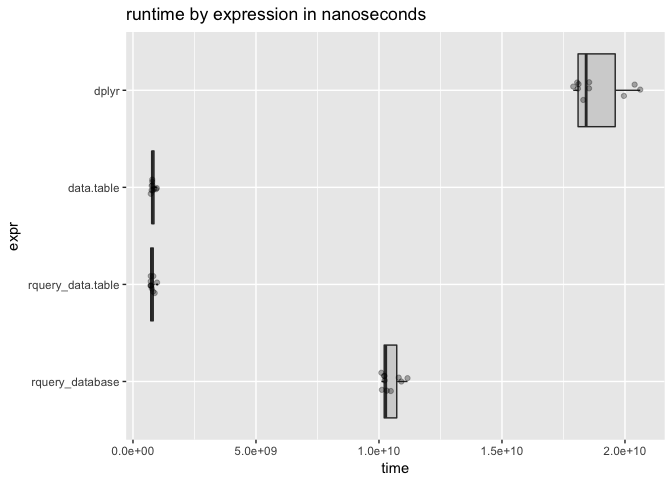
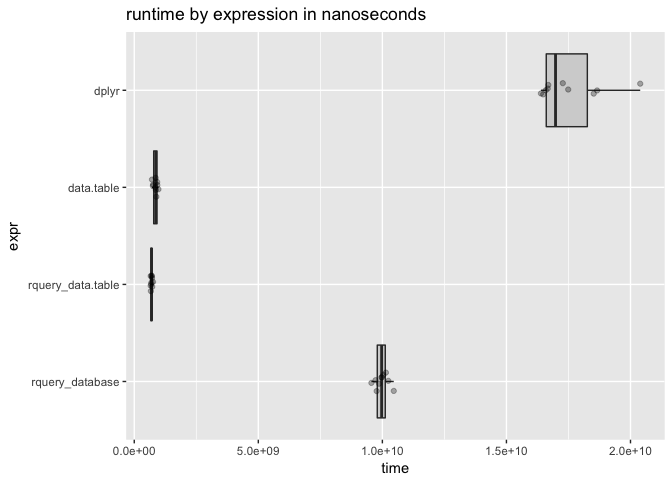
update packages and re-run

diff --git a/extras/data_table.md b/extras/data_table.md
@@ -40,6 +40,24 @@ library("qdatatable") # devtools::install.packages("WinVector/qdatatable")
     ##     coalesce
 
 ``` r
+packageVersion("dplyr")
+```
+
+    ## [1] '0.7.5'
+
+``` r
+packageVersion("data.table")
+```
+
+    ## [1] '1.10.4.3'
+
+``` r
+packageVersion("rquery")
+```
+
+    ## [1] '0.5.0'
+
+``` r
 # data example
 dL <- build_frame(
    "subjectID", "surveyCategory"     , "assessmentTotal" |
@@ -261,15 +279,15 @@ print(timings)
 
     ## Unit: milliseconds
     ##               expr        min         lq       mean     median         uq
-    ##    rquery_database 10096.8669 10209.7952 10454.1202 10273.5284 10802.6368
-    ##  rquery_data.table   718.9044   721.2533   789.1431   753.1543   825.3029
-    ##         data.table   723.5045   761.9016   818.0956   787.5019   869.4023
-    ##              dplyr 17897.0035 18086.7331 18850.8112 18421.9741 19956.2487
+    ##    rquery_database  9557.6507  9769.8670  9974.0528  9970.5300 10142.3420
+    ##  rquery_data.table   661.5817   670.0105   697.4420   697.3102   715.1854
+    ##         data.table   714.1491   760.9654   852.9112   865.7167   924.6815
+    ##              dplyr 16389.5809 16585.1609 17513.4590 16979.4044 18518.0801
     ##         max neval
-    ##  11159.0482    10
-    ##    978.8552    10
-    ##    968.0280    10
-    ##  20619.4354    10
+    ##  10459.1781    10
+    ##    757.0487    10
+    ##    974.5648    10
+    ##  20392.0191    10
 
 ``` r
 # summarize by hand using rquery database connector
@@ -284,10 +302,10 @@ timings %.>%
 
 | expr               |         mean|
 |:-------------------|------------:|
-| dplyr              |  18850811222|
-| rquery\_database   |  10454120200|
-| rquery\_data.table |    789143110|
-| data.table         |    818095618|
+| dplyr              |  17513458966|
+| rquery\_database   |   9974052834|
+| rquery\_data.table |    697441982|
+| data.table         |    852911245|
 
 ``` r
 autoplot(timings)
